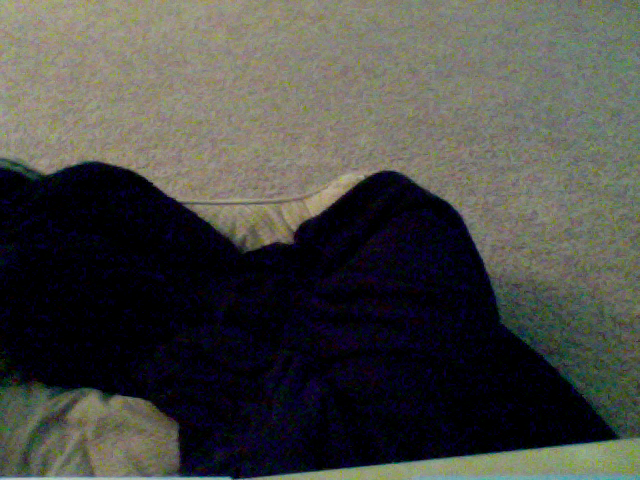
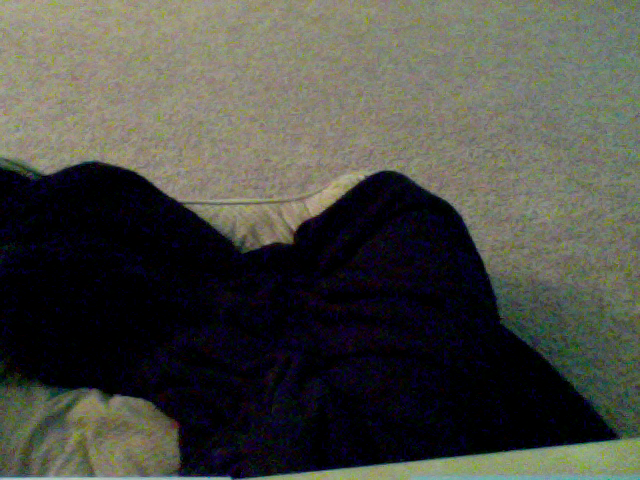
update at Month05Day07Time18:33

diff --git a/index.html b/index.html
@@ -40,7 +40,7 @@
       <div class="row">
         <div class="col-md-4">
 	<p>This picture was updated at Month05Day07Time18:33</p>
-		<img src="7_pic.png" />
+		<img src="5_pic.png" />
         </div>
       </div>
 
